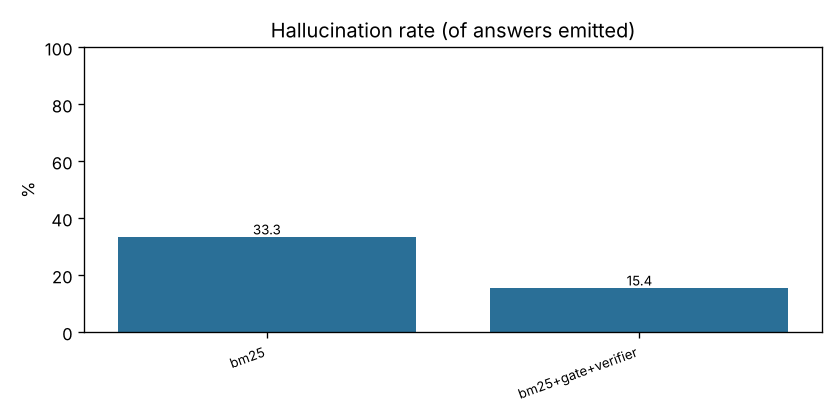
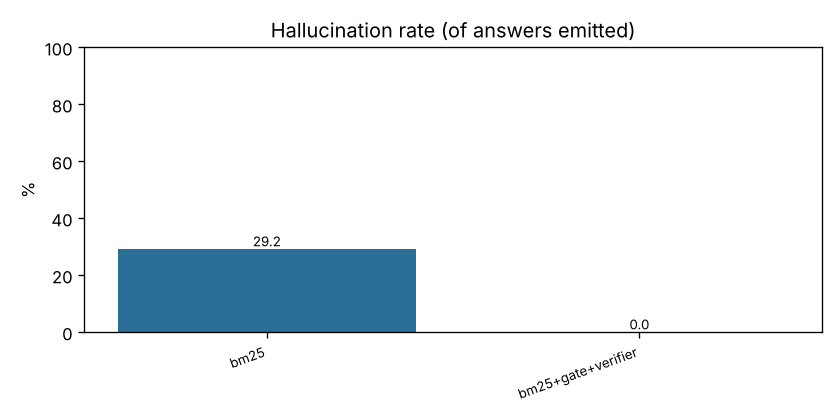
Chunker: one chunk per table row with its header; prose with figures is no longer a table
Found on the replica PPM: a definitions page was split into line fragments, and a 9-row
term sheet was one diluted chunk that never reached the top 5.

Claude-Session: https://claude.ai/code/session_019u9b1pND1Kezy9oyWy8AQf

Changed region(s): [[0.5571, 0.65, 0.9595, 0.8048], [0.1238, 0.5262, 0.4952, 0.619]]

diff --git a/pereport/chunker.py b/pereport/chunker.py
@@ -61,12 +61,15 @@ def is_heading(line: str) -> bool:
 
 
 def _is_table(lines: list[str]) -> bool:
-    """A table: half the lines (min 2) hold two numbers, or 80% have double-space cell gaps."""
+    """A table: at least two lines and 80% of them have the double-space cell gaps ingest writes.
+
+    Numbers alone do not make a table; prose lines with figures (definitions, fee clauses) must stay
+    prose. Plain text that was not produced by ingest therefore needs double-space cells to be
+    recognised as a table.
+    """
     if len(lines) < 2:
         return False
-    numeric = sum(1 for ln in lines if len(_NUMERIC_TOKEN.findall(ln)) >= 2)
-    columns = sum(1 for ln in lines if "  " in ln)  # ingest joins table cells with two spaces
-    return numeric * 2 >= len(lines) or columns * 5 >= len(lines) * 4
+    return sum(1 for ln in lines if "  " in ln) * 5 >= len(lines) * 4
 
 
 def _split_words(text: str, max_words: int) -> list[str]:
@@ -97,20 +100,19 @@ def _pack_sentences(text: str, max_words: int) -> list[str]:
     return out
 
 
-def _pack_table_lines(lines: list[str], max_words: int) -> list[str]:
-    """Split a table on row boundaries only, so a row is never cut in half."""
+def _table_row_chunks(lines: list[str], max_words: int) -> list[str]:
+    """One chunk per table row, each carrying the header row (a first line without digits).
+
+    A row is the natural unit a reader asks about ("Management Fee  2% per annum..."), and one row
+    scores far better in retrieval than a whole term sheet diluted into a single chunk.
+    """
+    header = lines[0] if len(lines) > 1 and not any(c.isdigit() for c in lines[0]) else ""
+    rows = lines[1:] if header else lines
     out: list[str] = []
-    cur: list[str] = []
-    cur_n = 0
-    for ln in lines:
-        n = len(ln.split())
-        if cur and cur_n + n > max_words:
-            out.append("\n".join(cur))
-            cur, cur_n = [], 0
-        cur.append(ln)
-        cur_n += n
-    if cur:
-        out.append("\n".join(cur))
+    for row in rows:
+        pieces = [row] if len(row.split()) <= max_words else _split_words(row, max_words)
+        for piece in pieces:  # an over-long row is split by words; short rows keep their cell gaps
+            out.append(f"{header}\n{piece}" if header else piece)
     return out
 
 
@@ -168,7 +170,7 @@ def chunk_pages(
         idx = 0
         for sec, kind, text in merged:
             if kind == "table":
-                pieces = _pack_table_lines(text.split("\n"), max_words)
+                pieces = _table_row_chunks(text.split("\n"), max_words)
             else:
                 pieces = _pack_sentences(text.replace("\n", " "), max_words)
             for piece in pieces:

diff --git a/tests/test_chunker.py b/tests/test_chunker.py
@@ -45,13 +45,26 @@ def test_oversize_sentence_is_hard_split() -> None:
     assert [len(c.text.split()) for c in chunks] == [4, 4, 2]
 
 
-def test_table_block_is_kept_separate_and_split_on_rows() -> None:
-    page = "Intro sentence.\n\nRow a 10 20\nRow b 30 40\nRow c 50 60"
-    chunks = chunk_pages([Page(1, page)], doc="d", max_words=8)
+def test_table_rows_become_one_chunk_each_with_the_header() -> None:
+    page = "Intro sentence.\n\nYear  Called  Paid\nRow a  10  20\nRow b  30  40"
+    chunks = chunk_pages([Page(1, page)], doc="d")
+    # hand-worked: 1 prose chunk + 2 table rows (the header line is not a chunk of its own)
     assert [c.kind for c in chunks] == ["text", "table", "table"]
-    # Each row has 4 words; two rows = 8 <= 8 fits, third row starts a new chunk.
-    assert chunks[1].text == "Row a 10 20\nRow b 30 40"
-    assert chunks[2].text == "Row c 50 60"
+    assert chunks[1].text == "Year  Called  Paid\nRow a  10  20"
+    assert chunks[2].text == "Year  Called  Paid\nRow b  30  40"
+    assert [c.chunk_id for c in chunks] == ["d:p1:c0", "d:p1:c1", "d:p1:c2"]
+
+
+def test_prose_lines_with_numbers_are_not_a_table() -> None:
+    # Found on a real PDF: wrapped definitions with figures were being split line by line.
+    page = "A fee of 2.0% up to USD 499,999; 1.5% up to USD\n999,999; and 1.0% above USD 1,000,000."
+    chunks = chunk_pages([Page(1, page)], doc="d")
+    assert [c.kind for c in chunks] == ["text"] and len(chunks) == 1
+
+
+def test_table_without_a_header_row_keeps_rows_alone() -> None:
+    chunks = chunk_pages([Page(1, "2021  100  40\n2022  200  50")], doc="d")
+    assert [c.text for c in chunks] == ["2021  100  40", "2022  200  50"]
 
 
 def test_no_chunk_spans_pages() -> None:

diff --git a/eval/sample/dev/report.md b/eval/sample/dev/report.md
@@ -6,14 +6,14 @@ Skipped configurations: embedding model BAAI/bge-small-en-v1.5 unavailable: Modu
 
 | Config | N | Accuracy | Auto-answered (headline) | Hallucination | 95% upper | Faithfulness | Cit. P | Cit. R | Refusal P | Refusal R |
 |---|---|---|---|---|---|---|---|---|---|---|
-| bm25 | 25 | 56.0% | 52.0% | 8/24 (33.3%) | 53.3% | 87.5% | 63.0% | 47.2% | 100.0% | 12.5% |
-| bm25+gate+verifier | 25 | 52.0% | 28.0% | 2/13 (15.4%) | 42.2% | 92.3% | 52.6% | 50.0% | 50.0% | 75.0% |
+| bm25 | 25 | 60.0% | 56.0% | 7/24 (29.2%) | 49.2% | 95.8% | 74.1% | 55.6% | 100.0% | 12.5% |
+| bm25+gate+verifier | 25 | 60.0% | 28.0% | 0/10 (0.0%) | 27.8% | 90.0% | 71.4% | 43.5% | 53.3% | 100.0% |
 
 ## Per-category: bm25
 
 | Category | N | Answered | Refused | Correct |
 |---|---|---|---|---|
-| answerable | 15 | 15 | 0 | 12 |
+| answerable | 15 | 15 | 0 | 13 |
 | partial | 2 | 2 | 0 | 1 |
 | unanswerable | 8 | 7 | 1 | 1 |
 
@@ -21,6 +21,6 @@ Skipped configurations: embedding model BAAI/bge-small-en-v1.5 unavailable: Modu
 
 | Category | N | Answered | Refused | Correct |
 |---|---|---|---|---|
-| answerable | 15 | 9 | 6 | 6 |
-| partial | 2 | 2 | 0 | 1 |
-| unanswerable | 8 | 2 | 6 | 6 |
+| answerable | 15 | 9 | 6 | 7 |
+| partial | 2 | 1 | 1 | 0 |
+| unanswerable | 8 | 0 | 8 | 8 |
